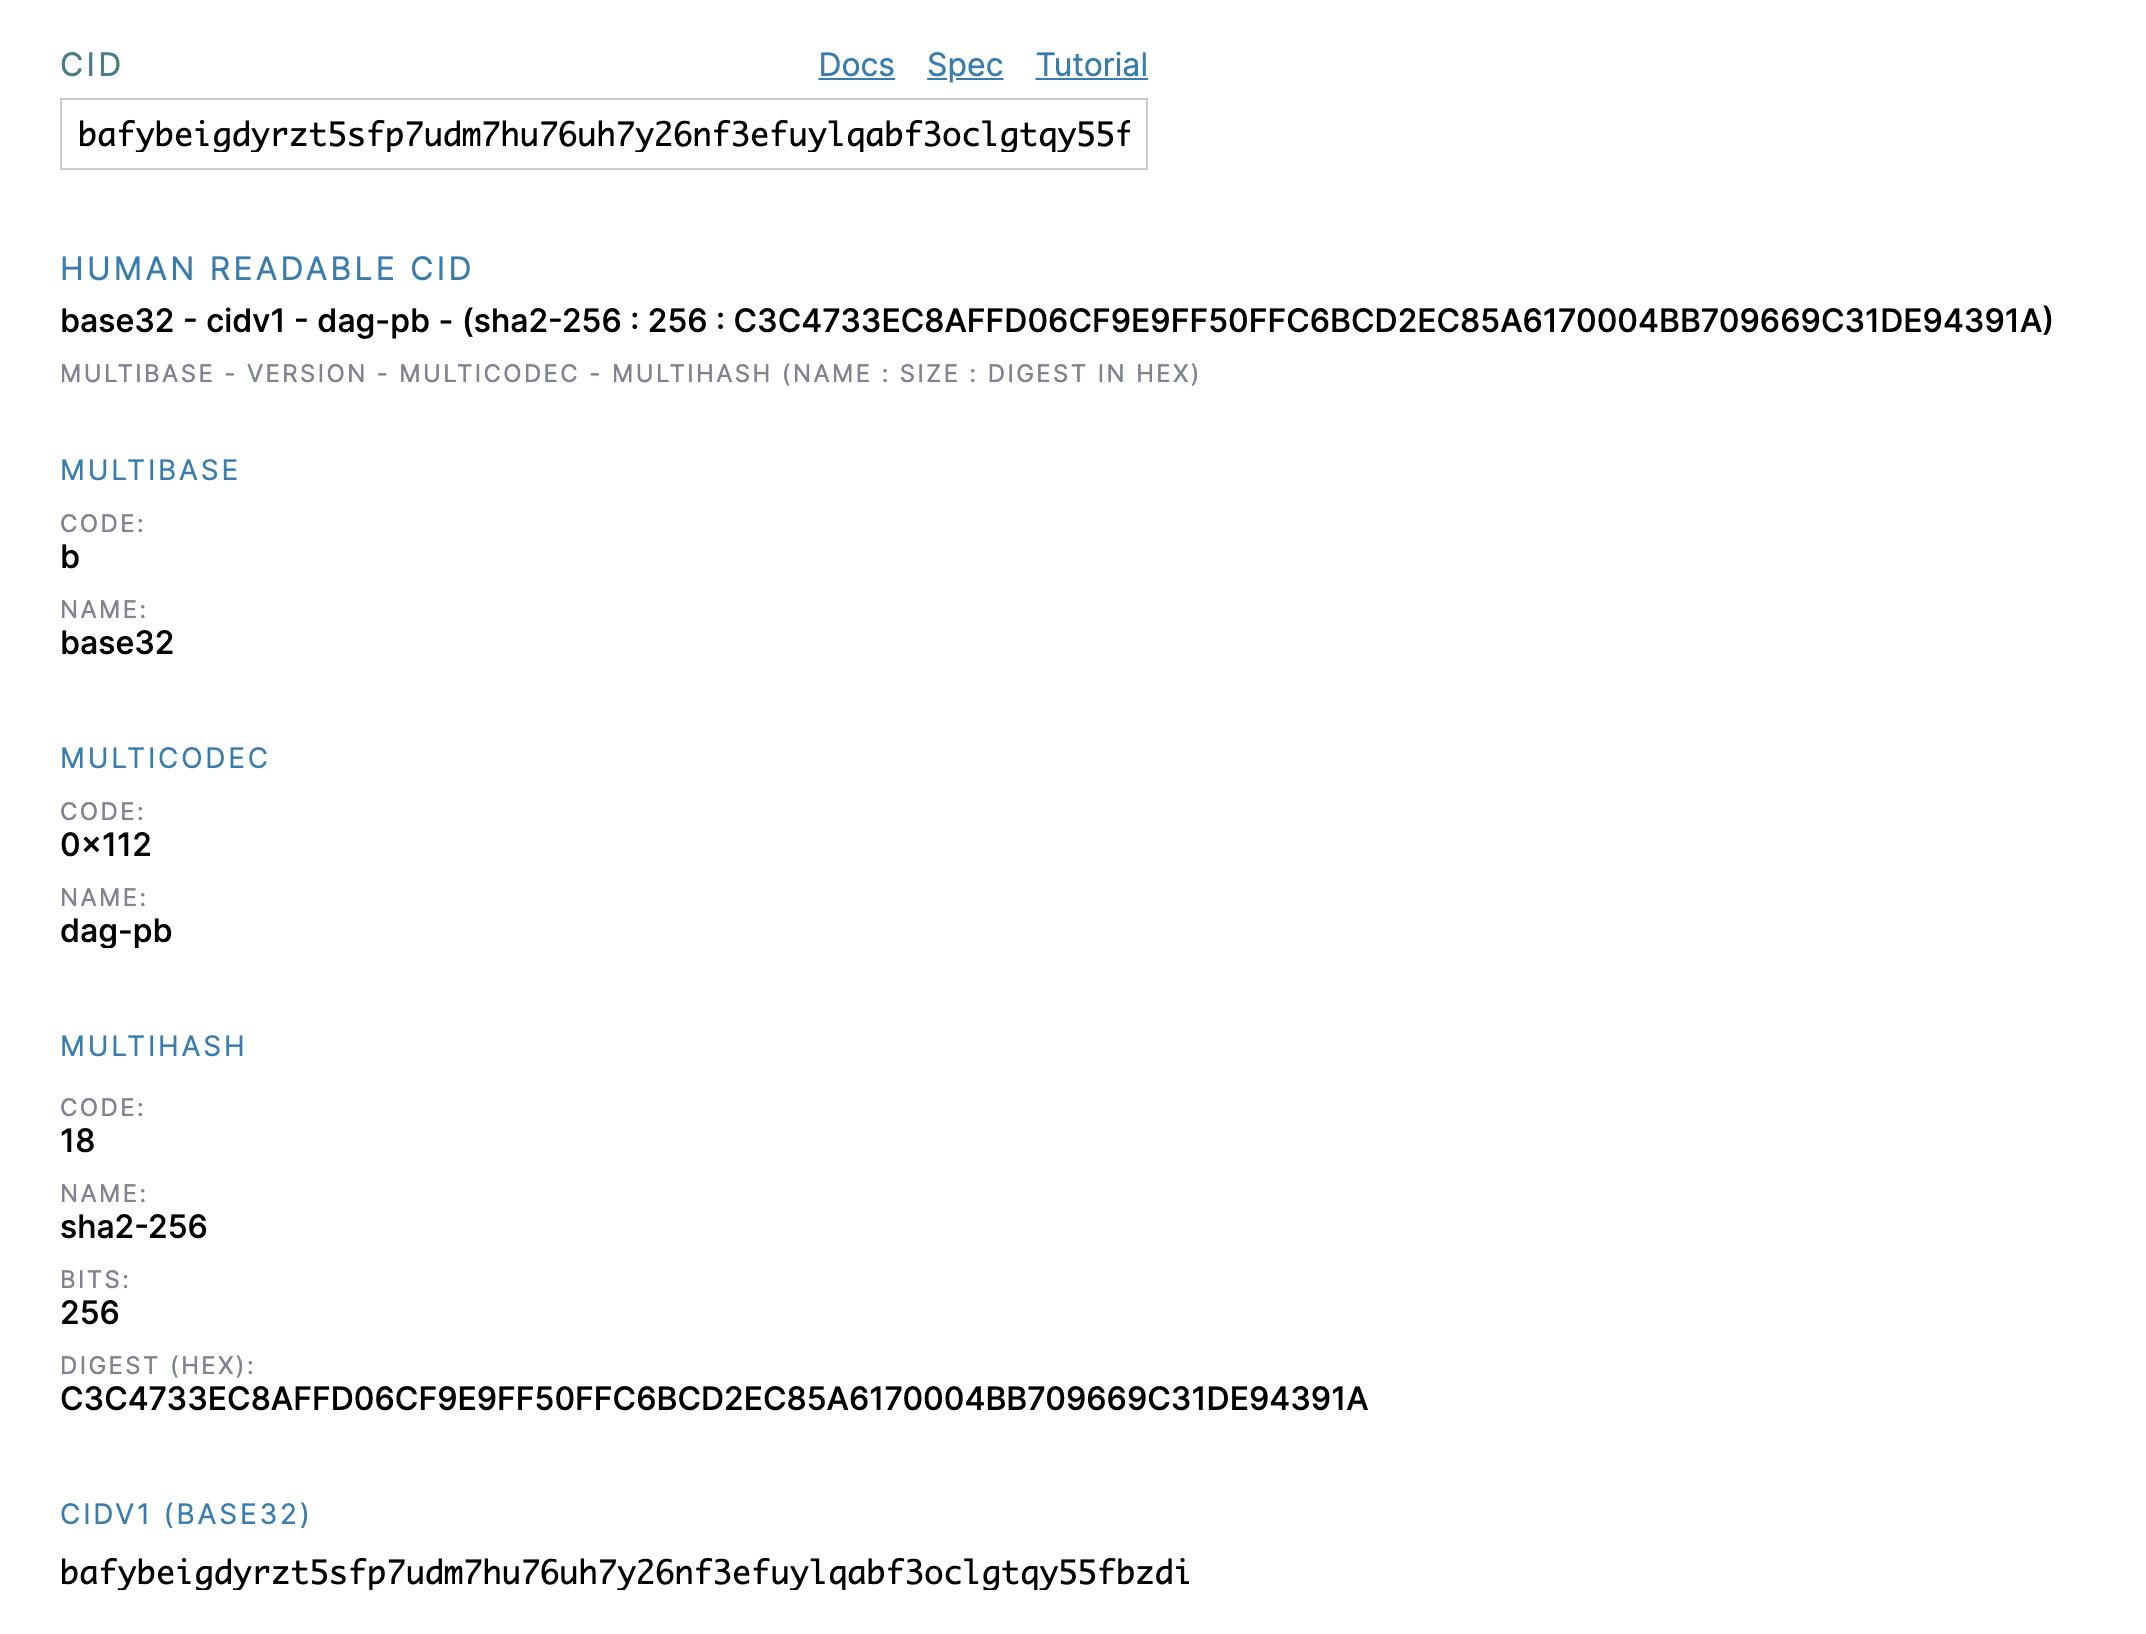
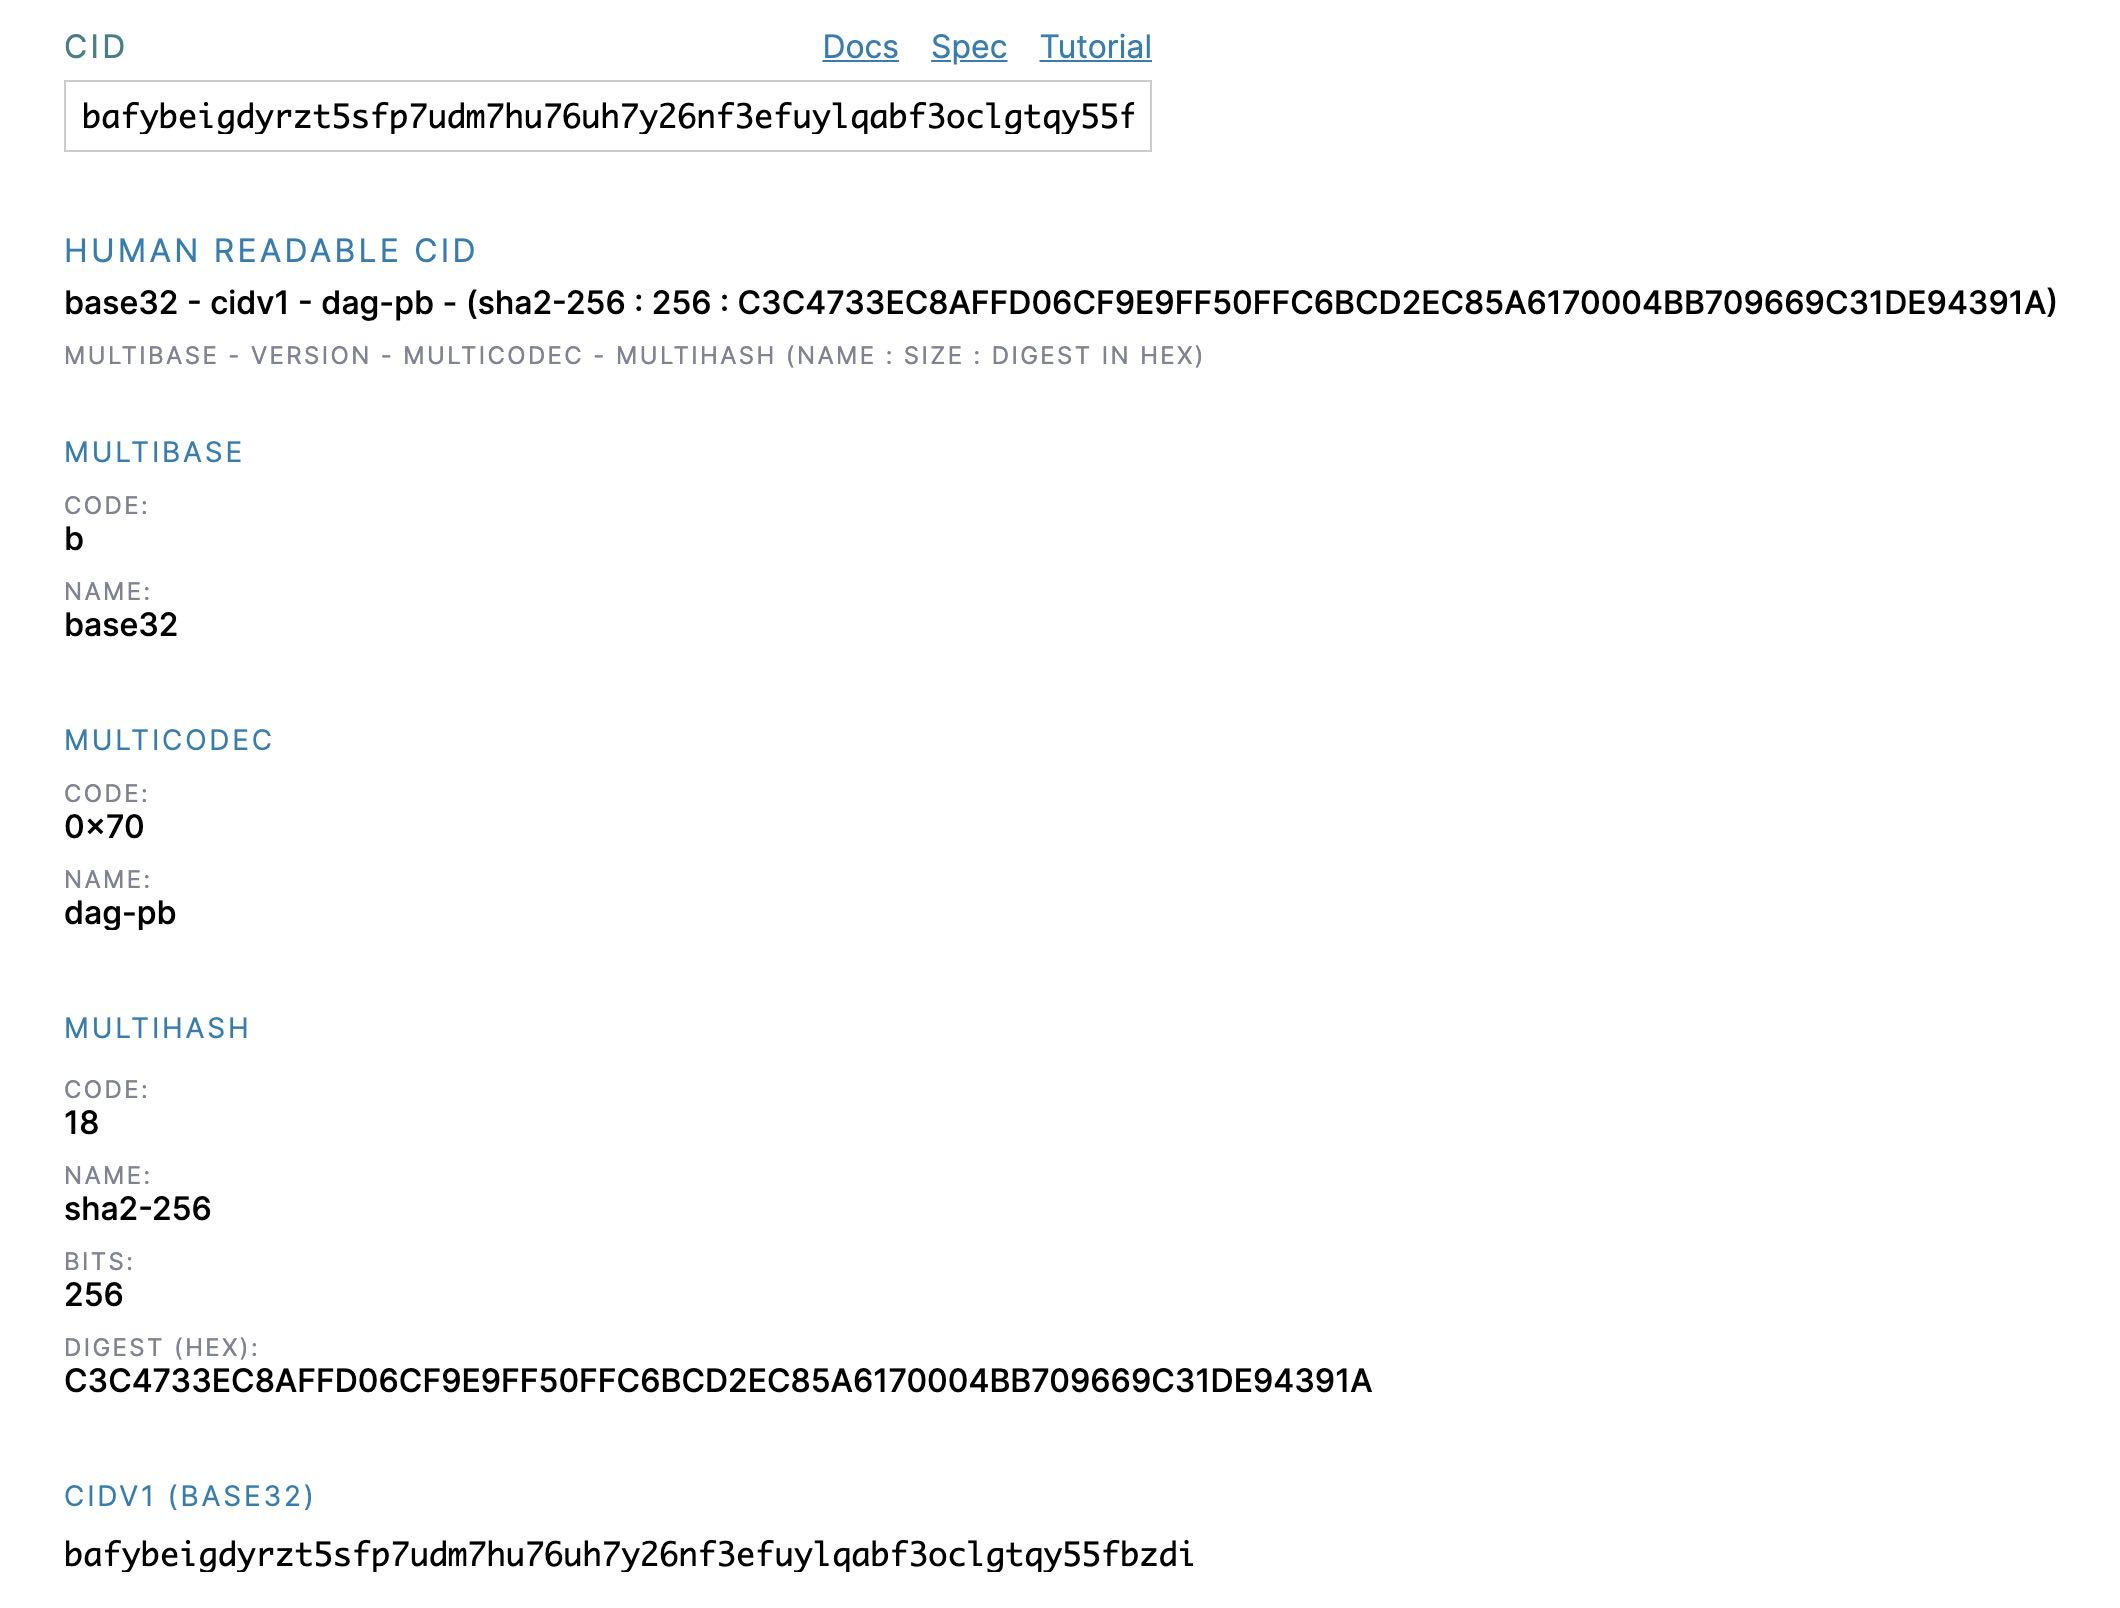
fix: multicodec code screenshot

diff --git a/src/tutorials/0006-anatomy-of-a-cid/06.md b/src/tutorials/0006-anatomy-of-a-cid/06.md
@@ -13,7 +13,7 @@ In this final lesson we will take a look at some results from this tool using bo
 
 This first example is a version 1 CID.
 
-![Results from the CID Inspector tool for the first example](/tutorial-assets/T0006L06-example-1.jpg)
+![Results from the CID Inspector tool for the first example](/tutorial-assets/T0006L06-example-1.png)
 
 Looking at the results from the CID Inspector tool we can see several parts that the tool was able to parse for us:
 
@@ -28,7 +28,7 @@ From the "Human Readable CID" breakdown, we can see that the original hash of th
 
 [`QmbWqxBEKC3P8tqsKc98xmWNzrzDtRLMiMPL8wBuTGsMnR`](https://cid.ipfs.io/#QmbWqxBEKC3P8tqsKc98xmWNzrzDtRLMiMPL8wBuTGsMnR)
 
-![Results from the CID Inspector tool for the first example](/tutorial-assets/T0006L06-example-2.jpg)
+![Results from the CID Inspector tool for the first example](/tutorial-assets/T0006L06-example-2.png)
 
 This Version 0 CID shows some different results: both the `multibase` and the `multicodec` are listed as "implicit".
 Since Version 0 CIDs did not have those prefixes, they are always assumed to be `base58btc` and `dag-pb` respectively.
